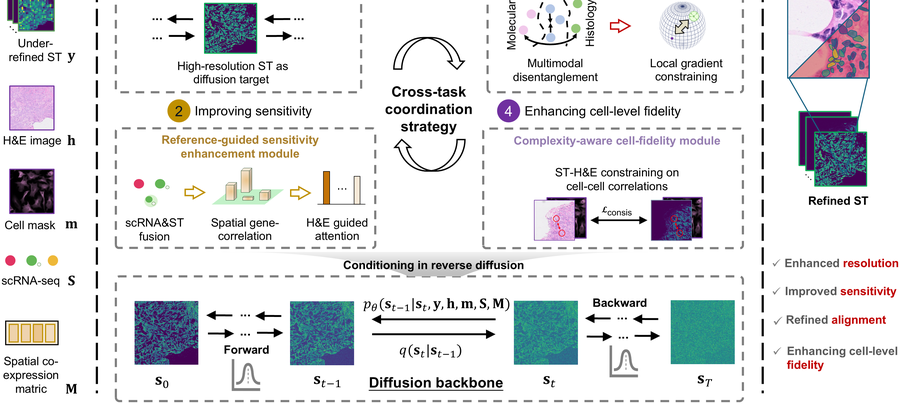
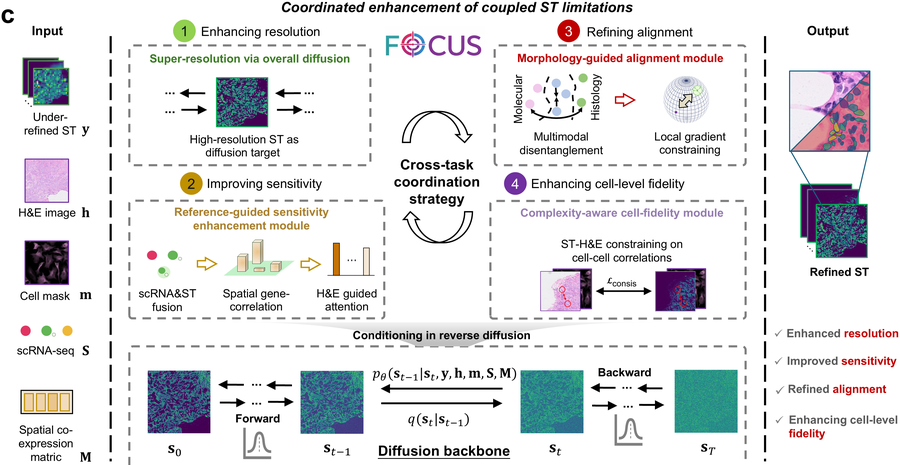
feat: group publications by research area, add code links, fix the FOCUS figure
Publications are now grouped by research area instead of authorship role, and
sorted newest-first inside each group (each entry carries a date for that):

  Spatial Transcriptomics & Computational Pathology  FOCUS, HARMONIC,
                                                     OncoRelay3D, C2-STi
  Virtual Cell Perturbation Modelling                StateXDiff
  Medical Image Analysis                             CoInS-Net, MLAR-UNet,
                                                     VTCNet, DesTrans
  Other Collaborations                               hydrogel review, IJCAI HAR

The authorship role the old grouping carried is kept as a per-entry tag
(First author / Co-first author / Co-author).

Code links, taken from the code-availability lines in the papers themselves, or
from a GitHub search whose owner matches the first author:

  FOCUS        github.com/LHY1007/FOCUS
  C2-STi       github.com/XiaofeiWang2018/C2-STi
  CoInS-Net    none public
  MLAR-UNet    github.com/haot2025/MLAR-UNet-LDCT-Denoising
  VTCNet       github.com/Camellia-0892/VTCNet
  OncoRelay3D  github.com/cynthia0122109-cyber/OncoRelay3D

The research paragraph now covers virtual cell perturbation prediction, and the
News entries for FOCUS and HARMONIC quote only their latest titles.

The FOCUS framework figure was clipped: the crop started at 62% of the source
raster, which cut module 1 and the FOCUS wordmark off the top of panel (c). It
now starts at 52.2%, so the whole framework panel is present.

diff --git a/_includes/publications.html b/_includes/publications.html
@@ -1,18 +1,25 @@
 {%- comment -%}
-  渲染 _data/publications.yml。新增论文只需改那个 YAML，不用碰这个文件。
-  每条论文用主题自带的 .paper-box 布局：宽屏时图在左、文字在右。
+  渲染 _data/publications.yml。
+
+  * 按研究类别（topic）分节；
+  * 每节内部按 date 倒序（新的在前）；
+  * 每条用主题自带的 .paper-box 布局：宽屏时图在左、文字在右。
+
+  新增论文或调整分类只需改 YAML，不用碰这个文件。
 {%- endcomment -%}
 
-{%- assign group_specs = "first|First-author & Co-first-author Work,collaborative|Collaborative Work" | split: "," -%}
+{%- assign topic_specs = "st|Spatial Transcriptomics & Computational Pathology,vcell|Virtual Cell Perturbation Modelling,imaging|Medical Image Analysis,other|Other Collaborations" | split: "," -%}
 
-{%- for spec in group_specs -%}
+{%- for spec in topic_specs -%}
   {%- assign parts = spec | split: "|" -%}
-  {%- assign group_key = parts[0] -%}
+  {%- assign topic_key = parts[0] -%}
+  {%- assign papers = site.data.publications | where: "topic", topic_key | sort: "date" | reverse -%}
+
+{%- if papers.size > 0 %}
 
 ## {{ parts[1] }}
 
-{%- for paper in site.data.publications -%}
-{%- if paper.group == group_key %}
+{%- for paper in papers %}
 
 <div class="paper-box">
   <div class="paper-box-image">
@@ -24,12 +31,12 @@
   <div class="paper-box-text">
     <p class="pub-title">{% if paper.url and paper.url != "" %}<a href="{{ paper.url }}">{{ paper.title }}</a>{% else %}{{ paper.title }}{% endif %}</p>
     <p class="pub-authors">{{ paper.authors_html }}</p>
-    <p class="pub-meta"><strong>{{ paper.venue_full }}</strong>{% if paper.venue_extra %} &middot; {{ paper.venue_extra }}{% endif %} <span class="show_paper_citations" data-title="{{ paper.title | escape }}"{% if paper.citation_titles %} data-title-alt="{{ paper.citation_titles | join: '|' | escape }}"{% endif %}></span>{% if paper.links %} {{ paper.links }}{% endif %}</p>
+    <p class="pub-meta"><strong>{{ paper.venue_full }}</strong>{% if paper.venue_extra %} &middot; {{ paper.venue_extra }}{% endif %}{% if paper.role %} &middot; <em>{{ paper.role }}</em>{% endif %} <span class="show_paper_citations" data-title="{{ paper.title | escape }}"{% if paper.citation_titles %} data-title-alt="{{ paper.citation_titles | join: '|' | escape }}"{% endif %}></span>{% if paper.links %} {{ paper.links }}{% endif %}</p>
     <p class="pub-note">{{ paper.note }}</p>
   </div>
 </div>
 
-{%- endif -%}
 {%- endfor -%}
 
+{%- endif -%}
 {%- endfor -%}

diff --git a/tools/check_site.py b/tools/check_site.py
@@ -167,16 +167,30 @@ def test_paper_titles() -> None:
     titles = re.findall(r'^\s*title:\s*"([^"]+)"', data, flags=re.MULTILINE)
     figures = re.findall(r'^\s*figure:\s*"([^"]+)"', data, flags=re.MULTILINE)
     authors = re.findall(r"^\s*authors_html:\s*'([^']+)'", data, flags=re.MULTILINE)
-    groups = re.findall(r"^\s*-?\s*group:\s*(\S+)", data, flags=re.MULTILINE)
+    topics = re.findall(r"^\s*-?\s*topic:\s*(\S+)", data, flags=re.MULTILINE)
+    dates = re.findall(r'^\s*date:\s*"([^"]+)"', data, flags=re.MULTILINE)
+    roles = re.findall(r"^\s*role:\s*(.+?)\s*$", data, flags=re.MULTILINE)
+    links = re.findall(r"^\s*links:\s*'([^']+)'", data, flags=re.MULTILINE)
 
     check(len(titles) == 11, f"共 11 篇论文（实际 {len(titles)}）")
     check(len(set(titles)) == len(titles), "论文标题没有重复")
     check(all(title.strip() for title in titles), "没有空标题")
     check(len(figures) == len(titles), f"每篇都配了框架图（{len(figures)} 张）")
     check(len(authors) == len(titles), f"每篇都有作者列表（{len(authors)} 条）")
+    check(len(dates) == len(titles), "每篇都有 date（用于组内排序）")
+    check(len(roles) == len(titles), "每篇都标了 role（一作 / 共同一作 / 合作）")
+
     check(
-        groups.count("first") == 6 and groups.count("collaborative") == 5,
-        f"分组为 6 篇一作/共同一作 + 5 篇合作（实际 {groups}）",
+        topics.count("st") == 4
+        and topics.count("vcell") == 1
+        and topics.count("imaging") == 4
+        and topics.count("other") == 2,
+        "分类：空间转录 4 / 虚拟细胞扰动 1 / 医学影像 4 / 其他 2"
+        f"（实际 {topics}）",
+    )
+    check(
+        all(re.match(r"^\d{4}-\d{2}(-\d{2})?$", value) for value in dates),
+        "date 都是 YYYY-MM 或 YYYY-MM-DD",
     )
 
     for figure in figures:
@@ -189,13 +203,16 @@ def test_paper_titles() -> None:
         )
         check("✉" in author_html, f"标了通讯作者：{title[:36]}")
 
-    # 共同一作标记只该出现在一作组里，合作论文里作者本人不该被标成共一
-    first_block = data.split("- group: collaborative")[0]
-    collab_block = data.split("- group: collaborative", 1)[1] if "- group: collaborative" in data else ""
-    check("<strong>Ningfeng Que</strong><sup>†</sup>" in first_block,
-          "一作组里作者本人带共同一作标记")
-    check("<strong>Ningfeng Que</strong><sup>†</sup>" not in collab_block,
-          "合作组里作者本人不带共同一作标记")
+    for link in links:
+        check("github.com/" in link, f"代码链接指向 GitHub：{link[:70]}")
+    check(len(links) == 5, f"5 篇写明了公开代码（实际 {len(links)}）")
+
+    # “其他合作”那两篇（材料综述、人体活动识别）里作者不是共同一作
+    other_block = data.split("- topic: other", 1)[1] if "- topic: other" in data else ""
+    check(
+        "<strong>Ningfeng Que</strong><sup>†</sup>" not in other_block,
+        "其他合作组里作者本人不带共同一作标记",
+    )
 
 
 def test_publications_include_is_wired() -> None:
@@ -209,6 +226,12 @@ def test_publications_include_is_wired() -> None:
 
     include = load_text("_includes/publications.html")
     check("site.data.publications" in include, "模板读取 _data/publications.yml")
+    check('where: "topic"' in include, "模板按研究类别分节")
+    check('sort: "date"' in include, "模板每组按日期排序")
+    check("reverse" in include, "新的论文排在前面")
+    for key in ["st", "vcell", "imaging", "other"]:
+        check(f"{key}|" in include, f"模板里定义了分类 {key}")
+    check("paper.role" in include, "模板输出作者角色（一作/共同一作/合作）")
     check("data-title" in include, "模板渲染了引用数所需的 data-title")
     check("data-title-alt" in include, "模板支持候选标题（预印本改名的情况）")
     check("paper-box" in include, "模板使用了左右布局的 paper-box")

diff --git a/tools/verify_live_matching.py b/tools/verify_live_matching.py
@@ -126,7 +126,7 @@ def main() -> int:
         return 2
 
     papers = (ROOT / "_data" / "publications.yml").read_text(encoding="utf-8")
-    blocks = re.split(r"^\s*-\s+group:", papers, flags=re.MULTILINE)[1:]
+    blocks = re.split(r"^\s*-\s+topic:", papers, flags=re.MULTILINE)[1:]
 
     titles: list[str] = []
     alt_titles: list[str] = []

diff --git a/_pages/about.md b/_pages/about.md
@@ -24,10 +24,11 @@ I am a Ph.D. student at the **State Key Laboratory of Natural and Biomimetic Dru
 <!-- TODO 可选：把你的导师名字加进来，例如
      advised by Prof. XXX, and previously worked with Prof. Yin Dai and Prof. Yueyang Teng at Northeastern University. -->
 
-My research sits at the intersection of **spatial transcriptomics**, **computational pathology** and **medical image analysis**. I build multimodal and generative models that recover the molecular and spatial information current spatial omics platforms cannot measure directly, and I care about making these models reliable enough for downstream biological discovery. Concretely, I work on:
+My research sits at the intersection of **spatial transcriptomics**, **computational pathology**, **virtual cell modelling** and **medical image analysis**. I build multimodal and generative models that recover the molecular and spatial information current spatial omics platforms cannot measure directly, and I care about making these models reliable enough for downstream biological discovery. Concretely, I work on:
 
 - **Spatial transcriptomics interpolation and enhancement** — reconstructing missing tissue sections, and coordinating molecular / spatial fidelity across platforms.
 - **Histology-aware spatial modelling** — using paired H&E images as an explicit anatomical constraint for cell–cell communication inference.
+- **Virtual cell perturbation prediction** — diffusion-based multimodal models of how single cells respond to genetic and chemical perturbation, the line of work opened by virtual-cell models such as STATE and UniPert.
 - **Cross-modal medical image analysis** — joint interpolation and segmentation, low-dose CT denoising, and medical image fusion.
 
 I have published **11** peer-reviewed papers and preprints, including an **early-accepted MICCAI 2025** paper as co-first author. My total <a href='https://scholar.google.com/citations?user=ZxrkoP4AAAAJ'>Google Scholar citations <strong><span id='total_cit'>—</span></strong></a> are updated automatically every day. You can also use the Google Scholar badge <a href='https://scholar.google.com/citations?user=ZxrkoP4AAAAJ'><img src="https://img.shields.io/endpoint?url={{ url | url_encode }}&logo=Google%20Scholar&labelColor=f6f6f6&color=9cf&style=flat&label=citations&cacheSeconds=1800" alt="Google Scholar citations"></a>.
@@ -36,8 +37,8 @@ I am always happy to discuss research and open to collaboration — feel free to
 
 # 🔥 News
 - *2026.10*: &nbsp;🎉 **OncoRelay3D**, a foundation-model-assisted framework that reconstructs 3D tumour cell-expression fields for mechanism-aware directed cell–cell communication, is accepted to **MICCAI 2026**.
-- *2026.10*: &nbsp;🎉 Our spatial transcriptomics enhancement foundation model **FOCUS** is updated on bioRxiv (v3) and retitled *Coordinated Enhancement of Molecular and Spatial Fidelity for Biological Inference in Spatial Transcriptomics*.
-- *2026.10*: &nbsp;📄 **HARMONIC**, our histology-aware graph framework for cell–cell communication inference, is updated on bioRxiv (v3).
+- *2026.10*: &nbsp;🎉 **Coordinated Enhancement of Molecular and Spatial Fidelity for Biological Inference in Spatial Transcriptomics** is released on bioRxiv (v3).
+- *2026.10*: &nbsp;📄 **Histology-aware Inference of Cell-cell Communication in Spatial Transcriptomics** is released on bioRxiv (v3).
 - *2026.08*: &nbsp;🎉 **CoInS-Net**, a continuous position-aware network for joint medical image interpolation and segmentation, is released on arXiv. *(co-first author)*
 - *2026.05*: &nbsp;🎉 **StateXDiff**, a cell state-contextualized multimodal diffusion model for single-cell perturbation prediction, is released on arXiv. *(co-first author)*
 - *2025.12*: &nbsp;📄 Our multimodal generative foundation model for cross-platform spatial transcriptomics enhancement is released on bioRxiv. *(co-first author)*
